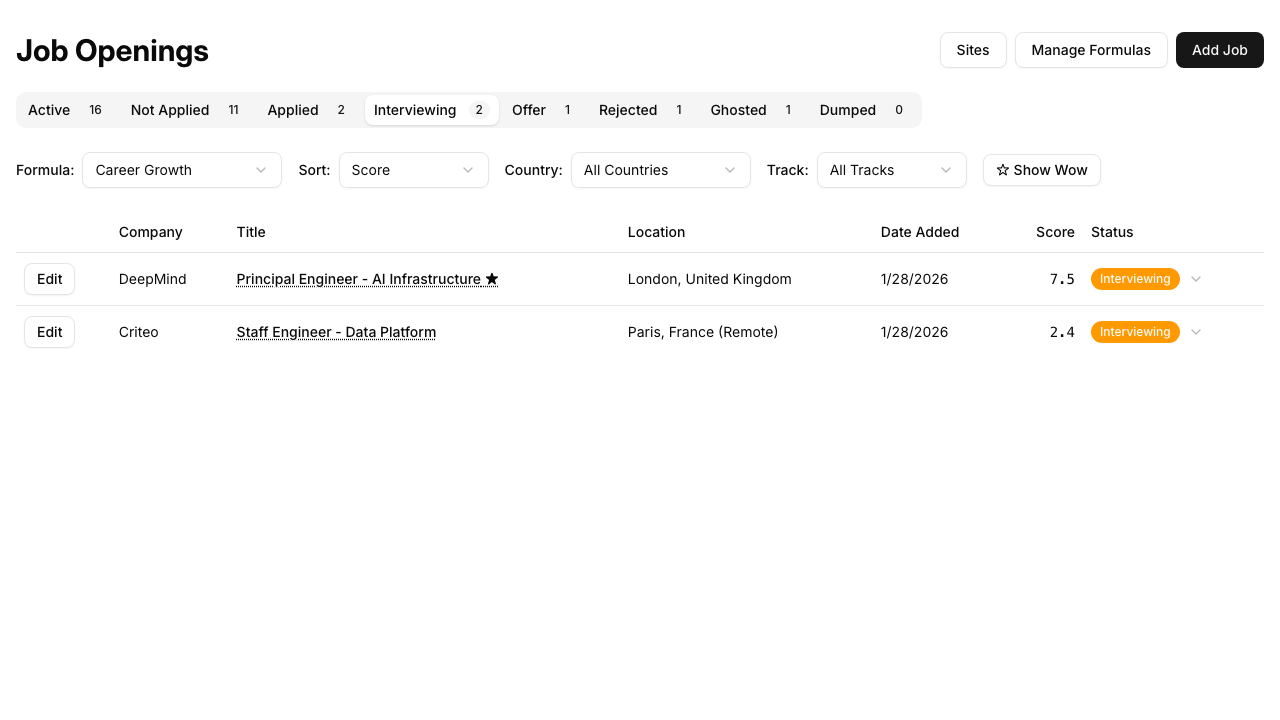
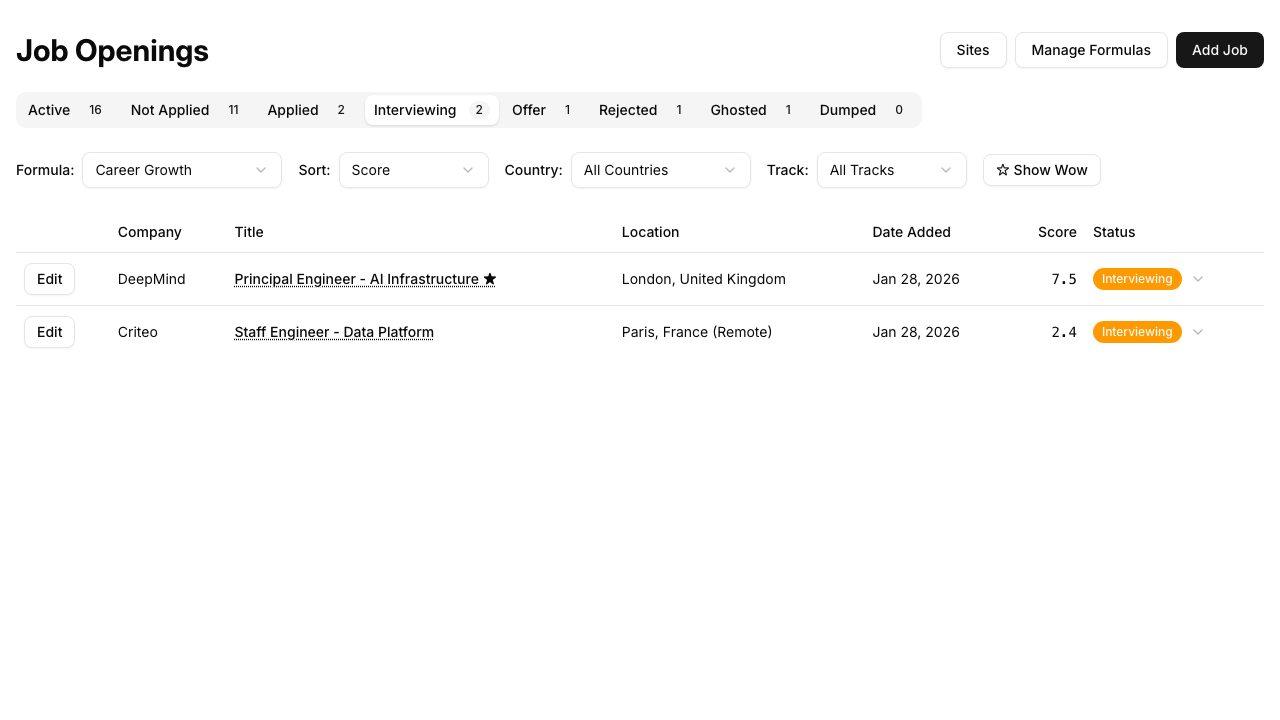
refactor: consolidate date formatting with date-fns
Replace three separate inline date formatting implementations with
centralized formatDate and formatDualTimestamp utilities powered by
date-fns, improving consistency and locale-aware formatting across
the job table, status badges, and sites page.

diff --git a/app/lib/format-timestamp.test.ts b/app/lib/format-timestamp.test.ts
@@ -1,28 +1,27 @@
 import { describe, expect, it, vi } from 'vitest'
-import { formatDualTimestamp } from './format-timestamp'
+import { formatDate, formatDualTimestamp } from './format-timestamp'
 
 describe('formatDualTimestamp', () => {
   it('should format timestamp with relative and absolute parts', () => {
-    // Mock current time to 2026-01-23 16:03:00
     vi.useFakeTimers()
     vi.setSystemTime(new Date('2026-01-23T16:03:00'))
 
     const timestamp = new Date('2026-01-23T14:03:00')
     const result = formatDualTimestamp(timestamp)
 
-    expect(result).toBe('2 hours ago (23.01.2026 - 14:03)')
+    expect(result).toBe('about 2 hours ago (Jan 23, 2026, 2:03 PM)')
 
     vi.useRealTimers()
   })
 
-  it('should handle "just now" for recent timestamps', () => {
+  it('should handle recent timestamps', () => {
     vi.useFakeTimers()
     vi.setSystemTime(new Date('2026-01-23T16:03:00'))
 
     const timestamp = new Date('2026-01-23T16:02:30')
     const result = formatDualTimestamp(timestamp)
 
-    expect(result).toBe('just now (23.01.2026 - 16:02)')
+    expect(result).toBe('1 minute ago (Jan 23, 2026, 4:02 PM)')
 
     vi.useRealTimers()
   })
@@ -34,7 +33,7 @@ describe('formatDualTimestamp', () => {
     const timestamp = new Date('2026-01-20T14:03:00')
     const result = formatDualTimestamp(timestamp)
 
-    expect(result).toBe('3 days ago (20.01.2026 - 14:03)')
+    expect(result).toBe('3 days ago (Jan 20, 2026, 2:03 PM)')
 
     vi.useRealTimers()
   })
@@ -46,7 +45,7 @@ describe('formatDualTimestamp', () => {
     const timestamp = new Date('2026-01-23T15:58:00')
     const result = formatDualTimestamp(timestamp)
 
-    expect(result).toBe('5 minutes ago (23.01.2026 - 15:58)')
+    expect(result).toBe('5 minutes ago (Jan 23, 2026, 3:58 PM)')
 
     vi.useRealTimers()
   })
@@ -58,55 +57,55 @@ describe('formatDualTimestamp', () => {
     const timestamp = new Date('2025-11-23T14:03:00')
     const result = formatDualTimestamp(timestamp)
 
-    expect(result).toBe('2 months ago (23.11.2025 - 14:03)')
+    expect(result).toBe('2 months ago (Nov 23, 2025, 2:03 PM)')
 
     vi.useRealTimers()
   })
 
-  it('should handle singular forms - 1 minute ago', () => {
+  it('should handle 1 minute ago', () => {
     vi.useFakeTimers()
     vi.setSystemTime(new Date('2026-01-23T16:03:00'))
 
     const timestamp = new Date('2026-01-23T16:02:00')
     const result = formatDualTimestamp(timestamp)
 
-    expect(result).toBe('1 minute ago (23.01.2026 - 16:02)')
+    expect(result).toBe('1 minute ago (Jan 23, 2026, 4:02 PM)')
 
     vi.useRealTimers()
   })
 
-  it('should handle singular forms - 1 hour ago', () => {
+  it('should handle about 1 hour ago', () => {
     vi.useFakeTimers()
     vi.setSystemTime(new Date('2026-01-23T16:03:00'))
 
     const timestamp = new Date('2026-01-23T15:03:00')
     const result = formatDualTimestamp(timestamp)
 
-    expect(result).toBe('1 hour ago (23.01.2026 - 15:03)')
+    expect(result).toBe('about 1 hour ago (Jan 23, 2026, 3:03 PM)')
 
     vi.useRealTimers()
   })
 
-  it('should handle singular forms - 1 day ago', () => {
+  it('should handle 1 day ago', () => {
     vi.useFakeTimers()
     vi.setSystemTime(new Date('2026-01-23T16:03:00'))
 
     const timestamp = new Date('2026-01-22T16:03:00')
     const result = formatDualTimestamp(timestamp)
 
-    expect(result).toBe('1 day ago (22.01.2026 - 16:03)')
+    expect(result).toBe('1 day ago (Jan 22, 2026, 4:03 PM)')
 
     vi.useRealTimers()
   })
 
-  it('should handle singular forms - 1 month ago', () => {
+  it('should handle about 1 month ago', () => {
     vi.useFakeTimers()
     vi.setSystemTime(new Date('2026-01-23T16:03:00'))
 
     const timestamp = new Date('2025-12-23T16:03:00')
     const result = formatDualTimestamp(timestamp)
 
-    expect(result).toBe('1 month ago (23.12.2025 - 16:03)')
+    expect(result).toBe('about 1 month ago (Dec 23, 2025, 4:03 PM)')
 
     vi.useRealTimers()
   })
@@ -117,7 +116,7 @@ describe('formatDualTimestamp', () => {
 
     const result = formatDualTimestamp('2026-01-23T14:03:00')
 
-    expect(result).toBe('2 hours ago (23.01.2026 - 14:03)')
+    expect(result).toBe('about 2 hours ago (Jan 23, 2026, 2:03 PM)')
 
     vi.useRealTimers()
   })
@@ -128,15 +127,31 @@ describe('formatDualTimestamp', () => {
     )
   })
 
-  it('should handle future dates as "just now"', () => {
+  it('should handle future dates with "in X" prefix', () => {
     vi.useFakeTimers()
     vi.setSystemTime(new Date('2026-01-23T16:03:00'))
 
     const timestamp = new Date('2026-01-23T16:08:00')
     const result = formatDualTimestamp(timestamp)
 
-    expect(result).toBe('just now (23.01.2026 - 16:08)')
+    expect(result).toBe('in 5 minutes (Jan 23, 2026, 4:08 PM)')
 
     vi.useRealTimers()
+  })
+})
+
+describe('formatDate', () => {
+  it('should format a Date object', () => {
+    const result = formatDate(new Date('2026-01-23'))
+    expect(result).toBe('Jan 23, 2026')
+  })
+
+  it('should format a date string', () => {
+    const result = formatDate('2026-01-23')
+    expect(result).toBe('Jan 23, 2026')
+  })
+
+  it('should return dash for null', () => {
+    expect(formatDate(null)).toBe('-')
   })
 })

diff --git a/app/lib/format-timestamp.ts b/app/lib/format-timestamp.ts
@@ -1,50 +1,17 @@
+import { format, formatDistanceToNow } from 'date-fns'
+
 export function formatDualTimestamp(date: Date | string): string {
   const d = typeof date === 'string' ? new Date(date) : date
-
-  // Handle invalid dates
   if (Number.isNaN(d.getTime())) {
     throw new Error('Invalid date provided')
   }
-
-  const now = new Date()
-  const diffMs = now.getTime() - d.getTime()
-
-  // Handle future dates - treat as "just now"
-  if (diffMs < 0) {
-    const day = d.getDate().toString().padStart(2, '0')
-    const month = (d.getMonth() + 1).toString().padStart(2, '0')
-    const year = d.getFullYear()
-    const hours = d.getHours().toString().padStart(2, '0')
-    const minutes = d.getMinutes().toString().padStart(2, '0')
-    const absolute = `${day}.${month}.${year} - ${hours}:${minutes}`
-    return `just now (${absolute})`
-  }
-  const diffSeconds = Math.floor(diffMs / 1000)
-  const diffMinutes = Math.floor(diffSeconds / 60)
-  const diffHours = Math.floor(diffMinutes / 60)
-  const diffDays = Math.floor(diffHours / 24)
-
-  let relative: string
-  if (diffMinutes < 1) {
-    relative = 'just now'
-  } else if (diffMinutes < 60) {
-    relative = `${diffMinutes} minute${diffMinutes === 1 ? '' : 's'} ago`
-  } else if (diffHours < 24) {
-    relative = `${diffHours} hour${diffHours === 1 ? '' : 's'} ago`
-  } else if (diffDays < 30) {
-    relative = `${diffDays} day${diffDays === 1 ? '' : 's'} ago`
-  } else {
-    const diffMonths = Math.floor(diffDays / 30)
-    relative = `${diffMonths} month${diffMonths === 1 ? '' : 's'} ago`
-  }
-
-  const day = d.getDate().toString().padStart(2, '0')
-  const month = (d.getMonth() + 1).toString().padStart(2, '0')
-  const year = d.getFullYear()
-  const hours = d.getHours().toString().padStart(2, '0')
-  const minutes = d.getMinutes().toString().padStart(2, '0')
-
-  const absolute = `${day}.${month}.${year} - ${hours}:${minutes}`
-
+  const relative = formatDistanceToNow(d, { addSuffix: true })
+  const absolute = format(d, 'PPp')
   return `${relative} (${absolute})`
+}
+
+export function formatDate(date: Date | string | null): string {
+  if (!date) return '-'
+  const d = typeof date === 'string' ? new Date(date) : date
+  return format(d, 'PP')
 }

diff --git a/app/routes/sites.tsx b/app/routes/sites.tsx
@@ -20,6 +20,7 @@ import {
   TableRow,
 } from '~/components/ui/table'
 import type { JobPostingSite } from '~/db/schema'
+import { formatDualTimestamp } from '~/lib/format-timestamp'
 import { jobPostingSiteSchema } from '~/schemas/job-posting-site.schema'
 import { jobPostingSiteService } from '~/services/index.server'
 import type { Route } from './+types/sites'
@@ -81,31 +82,6 @@ export async function action({ request }: Route.ActionArgs) {
   }
 
   return { success: false }
-}
-
-function formatRelative(diffDays: number): string {
-  if (diffDays <= 0) return 'Today'
-  if (diffDays === 1) return 'Yesterday'
-  if (diffDays < 7) return `${diffDays} days ago`
-  if (diffDays < 30) {
-    const weeks = Math.floor(diffDays / 7)
-    return `${weeks} ${weeks === 1 ? 'week' : 'weeks'} ago`
-  }
-  const months = Math.floor(diffDays / 30)
-  return `${months} ${months === 1 ? 'month' : 'months'} ago`
-}
-
-function formatLastChecked(date: string | null): string {
-  if (!date) return 'Never'
-  const checked = new Date(date)
-  const diffMs = Date.now() - checked.getTime()
-  const diffDays = Math.floor(diffMs / (1000 * 60 * 60 * 24))
-  const relative = formatRelative(diffDays)
-  const localized = checked.toLocaleString(undefined, {
-    dateStyle: 'medium',
-    timeStyle: 'short',
-  })
-  return `${relative} (${localized})`
 }
 
 export default function Sites() {
@@ -175,7 +151,9 @@ export default function Sites() {
                   </a>
                 </TableCell>
                 <TableCell className="text-muted-foreground">
-                  {formatLastChecked(site.lastCheckedAt as string | null)}
+                  {site.lastCheckedAt
+                    ? formatDualTimestamp(site.lastCheckedAt)
+                    : 'Never'}
                 </TableCell>
                 <TableCell>
                   <div className="flex gap-2">

diff --git a/app/components/status-badge.tsx b/app/components/status-badge.tsx
@@ -7,6 +7,7 @@ import {
   SelectTrigger,
 } from '~/components/ui/select'
 import { type ApplicationStatus, applicationStatusEnum } from '~/db/schema'
+import { formatDate } from '~/lib/format-timestamp'
 
 type StatusBadgeProps = {
   jobId: string
@@ -63,11 +64,6 @@ export function StatusBadge({
   const fetcher = useFetcher()
   const config = STATUS_CONFIG[status]
 
-  const formatDate = (date: Date | null | undefined) => {
-    if (!date) return ''
-    return ` ${date.toLocaleDateString()}`
-  }
-
   const handleStatusChange = (newStatus: string) => {
     if (newStatus === 'applied' && onAppliedClick) {
       onAppliedClick()
@@ -85,7 +81,7 @@ export function StatusBadge({
       <SelectTrigger className="w-auto border-0 p-0 h-auto focus:ring-0 shadow-none">
         <Badge variant={config.variant} className={config.className}>
           {config.label}
-          {status === 'applied' && formatDate(appliedAt)}
+          {status === 'applied' && appliedAt && ` ${formatDate(appliedAt)}`}
         </Badge>
       </SelectTrigger>
       <SelectContent position="popper" align="start">

diff --git a/app/components/job-table.tsx b/app/components/job-table.tsx
@@ -16,6 +16,7 @@ import {
   TableHeader,
   TableRow,
 } from '~/components/ui/table'
+import { formatDate } from '~/lib/format-timestamp'
 import type { RankedJobOpening } from '~/services/scoring.service'
 
 type JobTableProps = {
@@ -31,12 +32,6 @@ export function JobTable({
   onAppliedClick,
   onRowClick,
 }: JobTableProps) {
-  const formatDate = (date: Date | string | null) => {
-    if (!date) return '-'
-    const d = typeof date === 'string' ? new Date(date) : date
-    return d.toLocaleDateString()
-  }
-
   return (
     <Table>
       <TableHeader>

diff --git a/e2e/sites.spec.ts b/e2e/sites.spec.ts
@@ -110,8 +110,10 @@ test.describe('Job Posting Sites', () => {
     // Click "Just Checked"
     await row.locator('button:has-text("Just Checked")').click()
 
-    // Should now show "Today" instead of "Never"
-    await expect(row.locator('text=Today')).toBeVisible({ timeout: 10000 })
+    // Should now show a relative timestamp instead of "Never"
+    await expect(row.locator('text=less than a minute ago')).toBeVisible({
+      timeout: 10000,
+    })
     await expect(row.locator('text=Never')).not.toBeVisible()
   })
 
